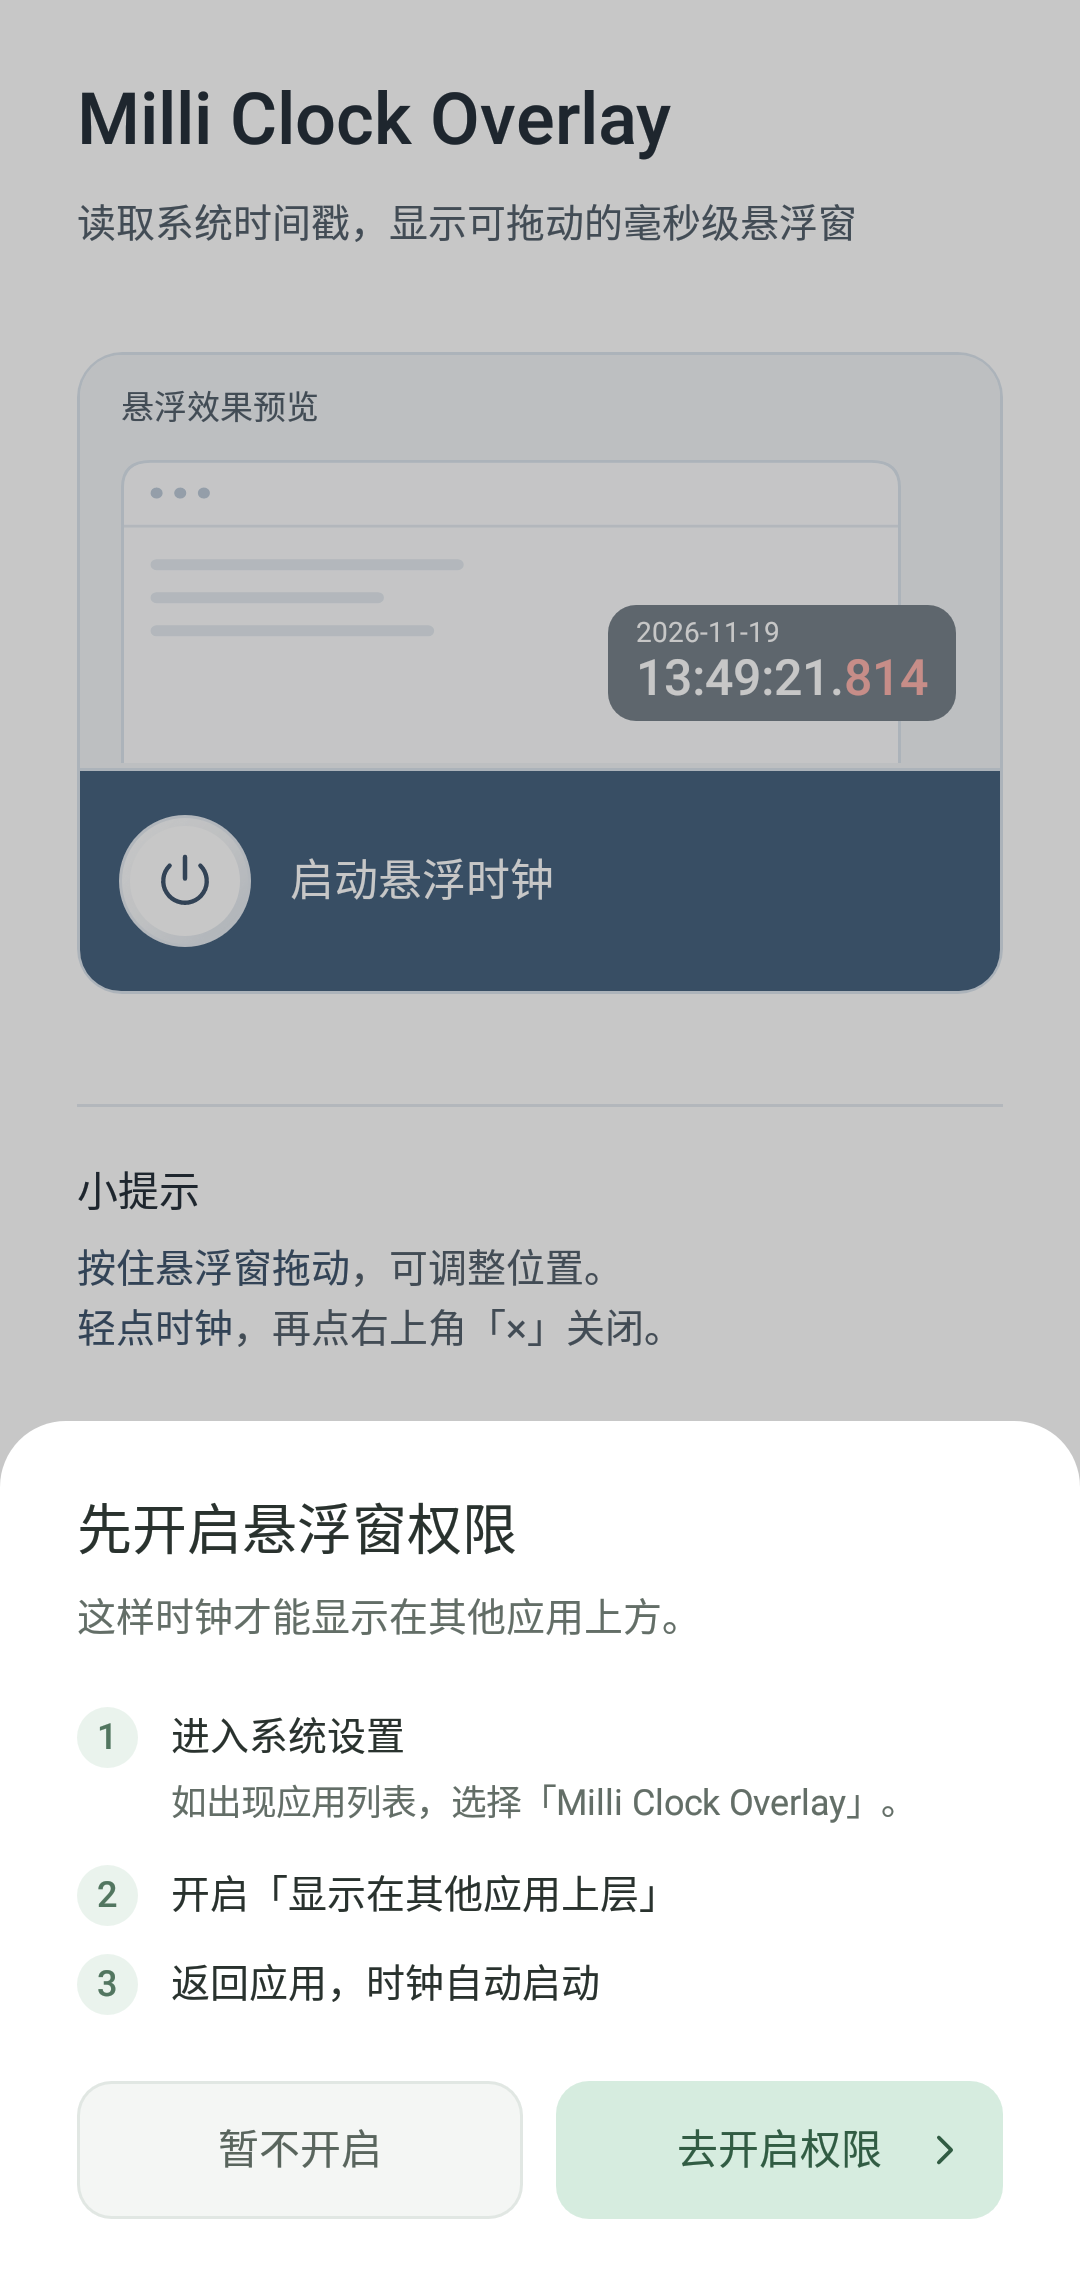
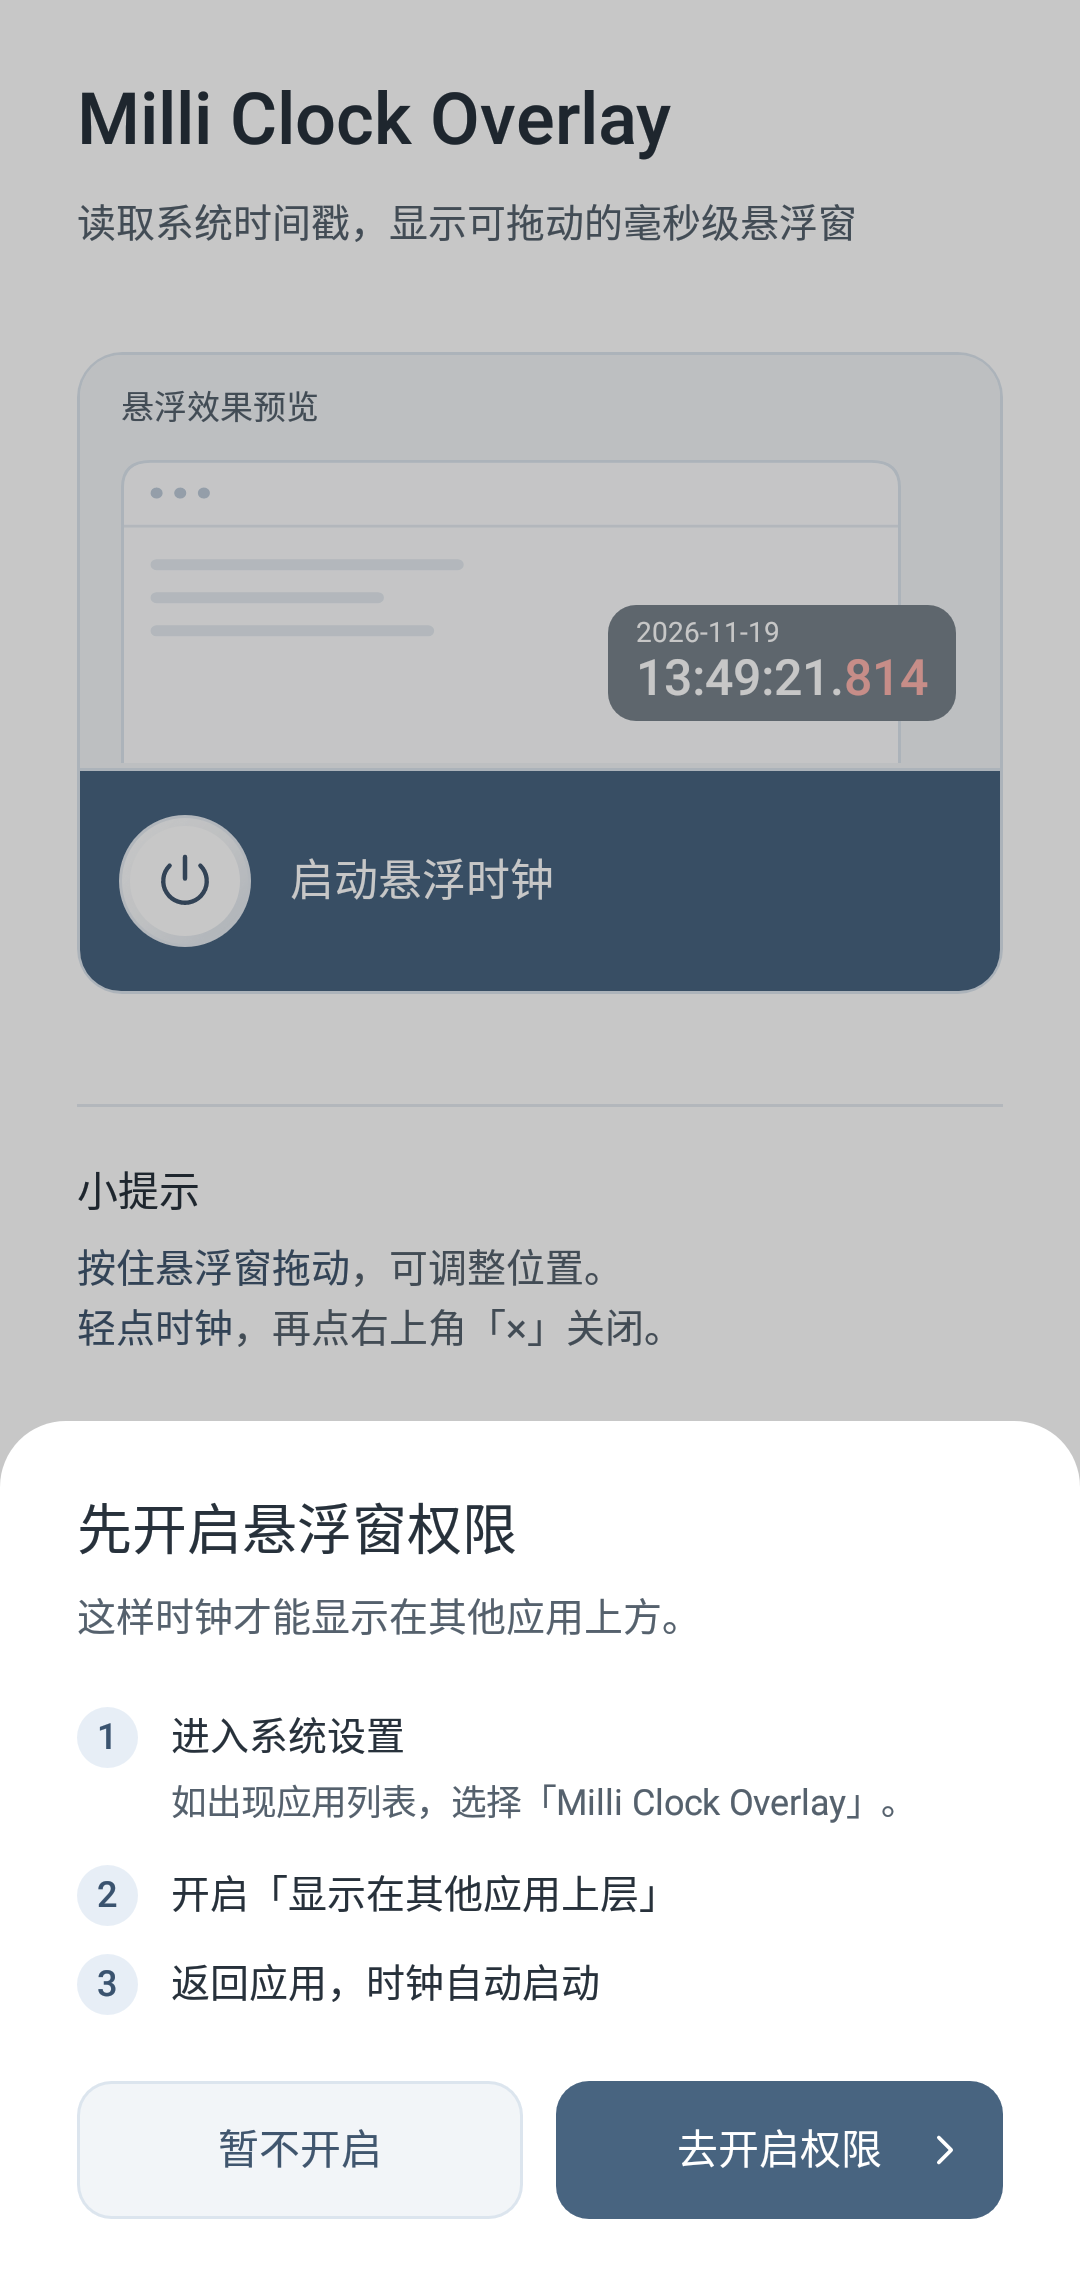
发布 v1.2.2：统一权限引导的雾蓝配色

Changed region(s): [[0.4889, 0.9055, 0.9472, 0.9991], [0.2139, 0.9367, 0.3056, 0.9679]]

diff --git a/README.md b/README.md
@@ -2,7 +2,7 @@
 
 读取系统时间戳，显示可拖动的毫秒级悬浮窗。使用其他应用时，也能随时查看日期与时间。
 
-[**下载最新版本**](https://github.com/bsxucome/milli-clock-overlay/releases/latest) · [v1.2.1 更新说明](https://github.com/bsxucome/milli-clock-overlay/releases/tag/v1.2.1)
+[**下载最新版本**](https://github.com/bsxucome/milli-clock-overlay/releases/latest) · [v1.2.2 更新说明](https://github.com/bsxucome/milli-clock-overlay/releases/tag/v1.2.2)
 
 支持 **Android 8.0 及以上版本**，旧版用户可直接覆盖安装。
 
@@ -17,11 +17,11 @@
 
 ## 界面截图
 
-以下为 v1.2.1 的实际界面。首页卡片里的时钟是样式示意，右图下方的浮窗显示截图时的设备时间。
+以下为 v1.2.2 的实际界面。首页卡片里的时钟是样式示意，右图下方的浮窗显示截图时的设备时间。
 
 | 应用首页 | 权限引导 | 运行状态 |
 | :---: | :---: | :---: |
-| <img src="docs/screenshots/main-screen.png" alt="首页的浮窗预览和雾蓝色启动按钮" width="240"> | <img src="docs/screenshots/permission-guide.png" alt="权限引导的三个步骤和底部两个等宽按钮" width="240"> | <img src="docs/screenshots/overlay-running.png" alt="浅蓝色停止按钮和显示红色毫秒的实际浮窗" width="240"> |
+| <img src="docs/screenshots/main-screen.png" alt="首页的浮窗预览和雾蓝色启动按钮" width="240"> | <img src="docs/screenshots/permission-guide.png" alt="权限引导的三个步骤和深雾蓝色授权按钮" width="240"> | <img src="docs/screenshots/overlay-running.png" alt="浅蓝色停止按钮和显示红色毫秒的实际浮窗" width="240"> |
 
 ## 如何使用
 

diff --git a/docs/releases/v1.2.2.md b/docs/releases/v1.2.2.md
@@ -1,0 +1,10 @@
+首次使用时，权限引导弹窗与首页采用同一套雾蓝配色。
+
+- 「去开启权限」使用深雾蓝底、白字和白色箭头，更容易找到。
+- 三个步骤编号使用浅雾蓝，「暂不开启」按钮使用浅灰蓝。
+
+<img src="https://raw.githubusercontent.com/bsxucome/milli-clock-overlay/v1.2.2/docs/screenshots/permission-guide.png" alt="更新后的雾蓝色权限引导" width="280">
+
+下载附件中的 **Milli-Clock-Overlay-v1.2.2.apk** 安装。支持 Android 8.0 及以上，旧版可直接覆盖升级。
+
+[完整使用说明](https://github.com/bsxucome/milli-clock-overlay/blob/v1.2.2/README.md)
